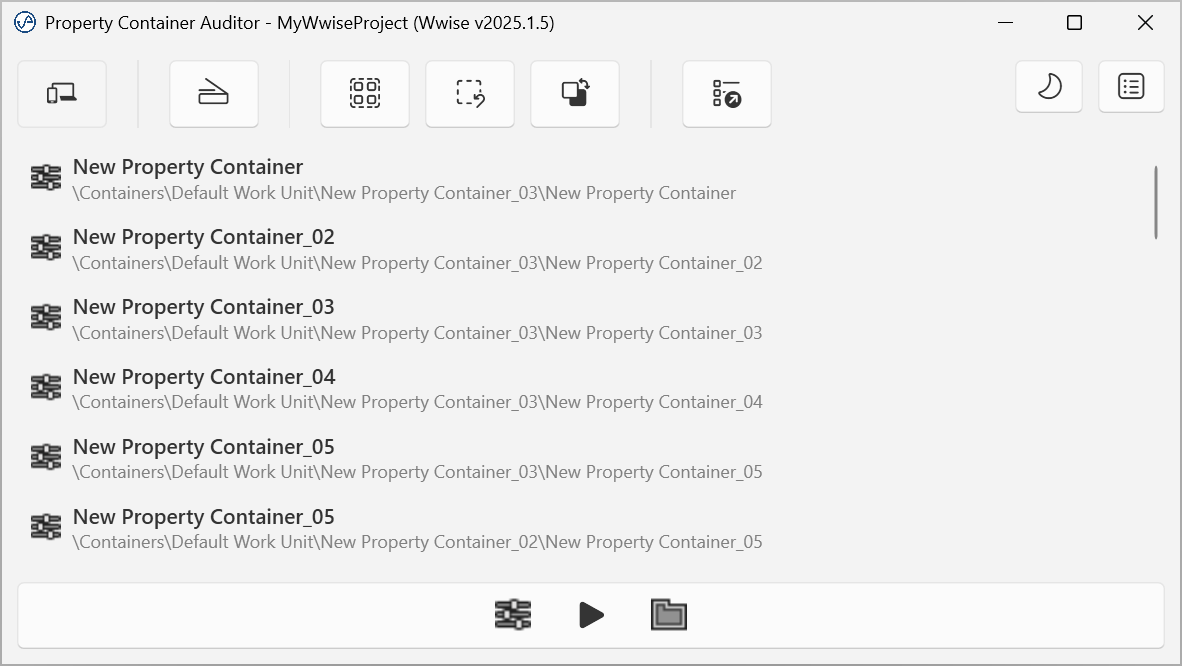
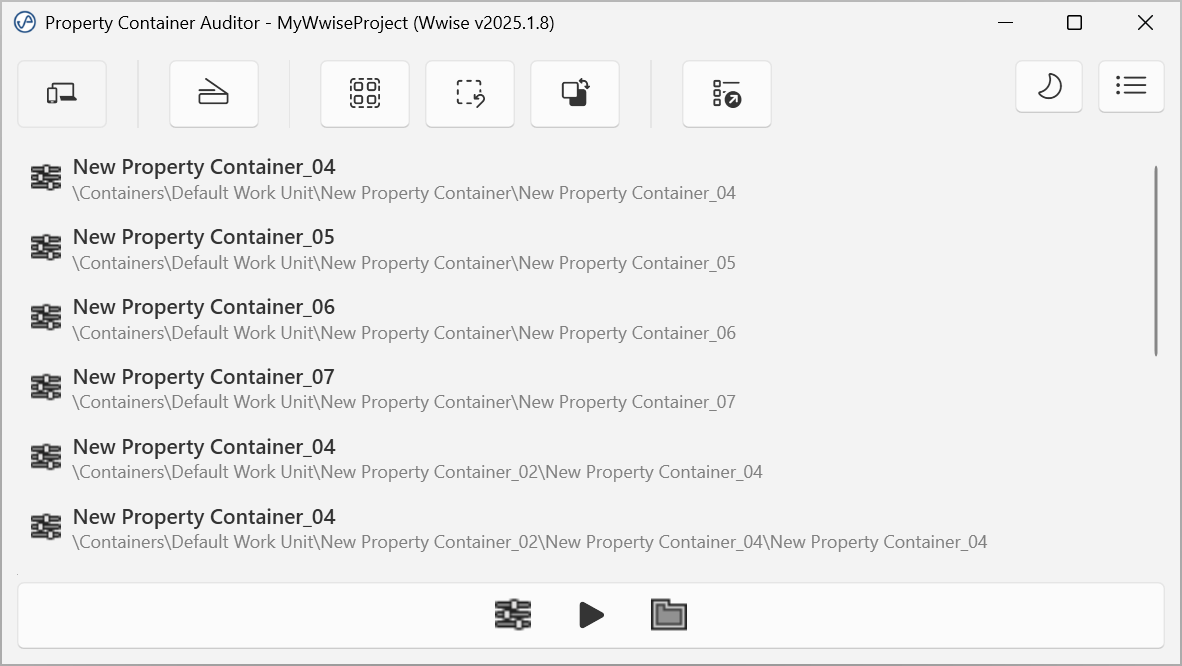
docs: split and update readme files

diff --git a/src/TransitionAuditioner/TransitionAuditioner.UI/MainWindow.xaml b/src/TransitionAuditioner/TransitionAuditioner.UI/MainWindow.xaml
@@ -24,44 +24,45 @@
             </Grid.ColumnDefinitions>
 
             <Button Grid.Column="0" Command="{Binding ConnectCommand}"
-                    Width="45" Height="35" VerticalAlignment="Center"
+                    Width="60" Height="45" VerticalAlignment="Center"
                     ToolTip="Connect to Wwise"
                     IsEnabled="{Binding CanConnect}">
                 <Grid>
                     <TextBlock Style="{StaticResource FluentIcon}" Text="{Binding ConnectIcon}"
                                Visibility="{Binding ShowConnectionIcon, Converter={StaticResource BooleanToVisibilityConverter}}" />
                     <ProgressBar IsIndeterminate="True" Width="20" Height="20"
-                                 Visibility="{Binding ShowConnectingProgress, Converter={StaticResource BooleanToVisibilityConverter}}" />
+                                 Visibility="{Binding ShowConnectingProgress, Converter={StaticResource BooleanToVisibilityConverter}}" HorizontalAlignment="Left" />
                 </Grid>
             </Button>
 
             <Separator Grid.Column="1" Margin="10,0,10,0" />
 
-            <Border Grid.Column="2" Padding="12,0" CornerRadius="6" Height="35"
+            <Border Grid.Column="2" Padding="12,0" CornerRadius="6" Height="45"
                     Background="{DynamicResource LayerOnMicaBaseAltFillColorSecondaryBrush}"
                     VerticalAlignment="Center" HorizontalAlignment="Stretch">
                 <DockPanel>
                     <Image DockPanel.Dock="Left" Source="{Binding TargetIcon, TargetNullValue={x:Null}}"
-                           Width="15" Height="15" Margin="0,0,8,0" VerticalAlignment="Center"
+                           Width="20" Height="20" Margin="0,0,8,0" VerticalAlignment="Center"
                            Visibility="{Binding HasTarget, Converter={StaticResource BooleanToVisibilityConverter}}" />
-                    <TextBlock Text="{Binding TargetName}" FontSize="18" FontWeight="Medium"
+                    <TextBlock Text="{Binding TargetName}" FontSize="22" FontWeight="Medium"
                                VerticalAlignment="Center" HorizontalAlignment="Left"
                                TextTrimming="CharacterEllipsis" ToolTip="{Binding TargetName}" />
                 </DockPanel>
             </Border>
 
-            <Button Grid.Column="3" Width="45" Height="35" Margin="8,0,0,0"
+            <Button Grid.Column="3" Width="60" Height="45" Margin="8,0,0,0"
                     VerticalAlignment="Center"
                     Command="{Binding PullSelectionCommand}"
                     ToolTip="{Binding PullSelectionToolTip}">
                 <TextBlock Style="{StaticResource FluentIcon}" Text="{Binding PullSelectionIcon}" />
             </Button>
 
-            <Separator Grid.Column="4" Margin="10,0,10,0" />
+            <Separator Grid.Column="4" Margin="10,0,10,0" Visibility="Hidden"/>
 
-            <StackPanel Grid.Column="5" Orientation="Horizontal" VerticalAlignment="Center">
+            <StackPanel Grid.Column="5" Orientation="Horizontal" VerticalAlignment="Top" HorizontalAlignment="Right">
                 <Button Command="{Binding ThemeChangeCommand}"
                         Width="45" Height="35" Margin="0,0,10,0"
+                        
                         ToolTip="Change app theme">
                     <TextBlock Style="{StaticResource FluentIcon}" Text="{Binding ThemeIcon}" />
                 </Button>
@@ -115,11 +116,11 @@
 
         <Grid Grid.Row="4" Margin="0,16,0,0">
             <StackPanel Orientation="Horizontal" HorizontalAlignment="Left">
-                <Button Command="{Binding ShowInExplorerCommand}" Width="45" Height="35" Margin="0,0,8,0"
+                <Button Command="{Binding ShowInExplorerCommand}" Width="60" Height="45" Margin="0,0,8,0"
                         ToolTip="Show in Project Explorer">
                     <TextBlock Style="{StaticResource FluentIcon}">&#xE7AC;</TextBlock>
                 </Button>
-                <Button Command="{Binding OpenPlaylistEditorCommand}" Width="45" Height="35"
+                <Button Command="{Binding OpenPlaylistEditorCommand}" Width="60" Height="45"
                         ToolTip="{Binding OpenPlaylistEditorToolTip}">
                     <TextBlock Style="{StaticResource FluentIcon}">&#xE8A4;</TextBlock>
                 </Button>
@@ -130,7 +131,7 @@
                      press during playback just re-triggers the transition cleanly. While playing it
                      swaps to a plain template (no visual-state manager) so hover/pressed don't alter
                      the steady accent — the press still fires the command. -->
-                <Button Command="{Binding PlayCommand}" Width="45" Height="35" Margin="0,0,8,0"
+                <Button Command="{Binding PlayCommand}" Width="60" Height="45" Margin="0,0,8,0"
                         ToolTip="Play">
                     <Button.Style>
                         <Style TargetType="Button" BasedOn="{StaticResource {x:Type Button}}">
@@ -157,7 +158,7 @@
                 <!-- Stop: an accent overlay briefly flashes on press to acknowledge the press, then
                      fades back out. -->
                 <Grid>
-                    <Button Command="{Binding StopCommand}" Width="45" Height="35"
+                    <Button Command="{Binding StopCommand}" Width="60" Height="45"
                             ToolTip="Stop">
                         <Button.Triggers>
                             <EventTrigger RoutedEvent="Button.Click">

diff --git a/readme.md b/readme.md
@@ -2,79 +2,56 @@
 
 Waapi Tools is a collection of utilities designed to streamline tasks in Audiokinetic's Wwise middleware using the Wwise Authoring API (WAAPI) and Wwise Authoring Query Language (WAQL).
 
-Currently, the project includes the following tool:
+Currently, the project includes the following tools:
 
-- **[PropertyContainerAuditor](https://github.com/jaku5/waapi-tools#property-container-auditor)**: A utility that converts Actor-Mixers / Property Containers into Virtual Folders if they are not utilized for mixing tasks.
+- **[PropertyContainerAuditor](src/PropertyContainerAuditor/README.md)**: A utility that converts Actor-Mixers / Property Containers into Virtual Folders if they are not utilized for mixing tasks.
 ![PropertyContainerAuditor](images/PropertyContainerAuditor.png)
-- **[TransitionAuditioner](https://github.com/jaku5/waapi-tools#transition-auditioner)**: Audition a single interactive-music transition in-editor, without playing through the material that precedes it.
+- **[TransitionAuditioner](src/TransitionAuditioner/README.md)**: Audition a single interactive-music transition in-editor, without playing through the material that precedes it.
+![TransitionAuditioner](images/TransitionAuditioner.png)
 - More tools coming soon.
 
 ## Prerequisites
 
 - **Wwise 2023.1.x** or any newer version.
+- **WAAPI enabled** in Wwise: **Project → User Preferences → Enable Wwise Authoring API**. The tools communicate with Wwise over the Wwise Authoring API.
 - **Supported OS:** Windows 10[^1], Windows 11.
 [^1]: Note for Windows 10 users: Windows 10 does not include the Segoe Fluent Icons font by default. To ensure proper icon rendering, install the Segoe Fluent Icons font as described in the [Microsoft documentation](https://learn.microsoft.com/en-us/windows/apps/design/iconography/segoe-fluent-icons-font#how-do-i-get-this-font)
 
 ## Installation
 
-1. **Download the Release**:
-   - Navigate to the [Releases](https://github.com/jaku5/waapi-tools/releases) section of this repository.
-   - Download the latest release, which includes:
-     - `PropertyContainerAuditor.exe`
-     - `jpaudio-waapi-tools.json`
+First, **download the latest release** from the [Releases](https://github.com/jaku5/waapi-tools/releases) section. Each release bundles every tool's executable plus the shared `jpaudio-waapi-tools.json` command file:
 
-2. **Copy files to the Wwise installation folder**:
-   - Locate your Wwise installation directory.
-   - Copy the downloaded `PropertyContainerAuditor.exe` into `%WWISEROOT%\Authoring\Data\Add-ons` and `jpaudio-waapi-tools.json` into `%WWISEROOT%\Authoring\Data\Add-ons\Commands` subfolder of your Wwise installation.
-   - For more information and other installation methods, refer to the [Audiokinetic documentation](https://www.audiokinetic.com/en/public-library/2022.1.18_8567/?source=SDK&id=defining_custom_commands.html).
+- `PropertyContainerAuditor.exe`
+- `TransitionAuditioner.exe`
+- `jpaudio-waapi-tools.json`
+
+There are two ways to run the tools (both require WAAPI enabled — see [Prerequisites](#prerequisites)).
+
+### Option A — Run standalone (no setup)
+
+Just launch the tool's `.exe` directly (e.g. double-click it) while Wwise is open. The tool connects to Wwise over WAAPI on its own — nothing to copy, nothing to configure. This is the quickest way to try the tools.
+
+### Option B — Wwise Extra menu integration
+
+If you'd rather launch the tools from inside Wwise, register them as custom commands:
+
+1. Locate your Wwise installation directory.
+2. Copy the tool executables (`PropertyContainerAuditor.exe`, `TransitionAuditioner.exe`) into `%WWISEROOT%\Authoring\Data\Add-ons`, and `jpaudio-waapi-tools.json` into the `%WWISEROOT%\Authoring\Data\Add-ons\Commands` subfolder.
+3. Restart Wwise. The tools now appear under the **Extra** menu.
+
+For more information and other installation methods, refer to the [Audiokinetic documentation](https://www.audiokinetic.com/en/public-library/2022.1.18_8567/?source=SDK&id=defining_custom_commands.html).
 
 ## Usage
 
-1. Open Wwise.
-2. Access the **Extra** menu in Wwise.
-3. Select the command to run the tool.
+1. Open Wwise (with WAAPI enabled).
+2. Launch a tool — either run its `.exe` directly (Option A) or select its command from the **Extra** menu (Option B).
 
 ## Tools
-### Property Container Auditor
-#### Background
-As per [Audiokinetic guidelines](https://www.audiokinetic.com/en/public-library/2022.1.18_8567/?source=SDK&id=goingfurther_optimizingmempools_reducing_memory.html), Actor-Mixers / Property Container should not be used solely for organizing sounds, as they introduce some memory overhead compared to Work Units or Virtual Folders.
 
-#### How it works
-The tool will:
-- Identify Actor-Mixers / Property Container that can be converted into virtual folders based on the following criteria (all conditions must be met):
-    - Actor-Mixer / Property Container has at least one ancestor Actor-Mixer / Property Container.
-    - Actor-Mixer / Property Container has no overridden properties or values (i.e., all properties and values are the same as on the closest ancestor Actor-Mixer / Property Container).
-    - Actor-Mixer / Property Container has all randomizable property values set to 0 and doesn't have any active randomizer set on them.
-    - Actor-Mixer / Property Container has no RTPCs with control inputs.
-    - Actor-Mixer / Property Container has no states with defined values.
-    - Actor-Mixer / Property Container is not referenced by any event action.
-- List all Actor-Mixer / Property Container candidates' names and IDs in the UI, allowing you to select and manage them (e.g., Show in List View or Find in Project Explorer).
-- Prompt you to confirm the conversion for selected candidates.
+Each tool has its own detailed documentation:
 
-> [!NOTE]
-> Please note that this tool is considered experimental; be careful when using it in production and preferably have source control set up to inspect the diffs or restore backups. Especially since it is meant to be used at the end of production, after the mixing stage, when you know you won't need these Actor-Mixers / Property Container for mixing tasks. That said, you should be able to undo all the changes made by the tool with <kbd>Ctrl</kbd> + <kbd>Z</kbd>.
-
-### Transition Auditioner
-#### Background
-In Wwise interactive music, transitions fire only at their defined points (bars, cues, segment ends). To hear one specific transition you often have to start playback well before it and listen through the intervening material — then redo the wait after every tweak. This tool automates a community technique (wrapping the structure in a parent Music Switch Container with a *Jump to playlist item* + custom-cue transition rule) so that checking one transition becomes a one-step action.
-
-It is the live, in-editor, single-transition counterpart to offline approaches like [Music Render](https://www.audiokinetic.com/en/blog/) — complementary, not competing.
-
-#### How it works
-1. In Wwise, **select** a Music Switch Container, Music Playlist Container, or Music Segment in the Project Explorer.
-2. Run **Extra → Audition Music Transition**. The tool connects and shows the selected target. To change the target later without reopening, select a different object in Wwise and click **Pull Selection**.
-3. Set the **cue offset from end** (in seconds, default 1 s) and the **length basis** — *Exit cue* (where the transition fires, the default), *Segment end* (the segment's `@EndPosition`, including any post-exit tail), or *Audio length* (the longest audio source's trimmed duration) — then click **Set Up & Audition**. The tool:
-   - Builds a Music Switch Container harness at the root of the target's own Work Unit (wrapped in a single undo group, so your undo history is preserved).
-   - **Copies** the selected structure into the harness (the production structure is copied, never moved or mutated).
-   - Places one custom cue the chosen offset before each Music Segment's end, so you can jump to the run‑up into the transition instead of playing the whole segment.
-   - Assigns the copy as the harness's generic path, and adds a transition rule (Source **None** → **target**, Sync to **Random Custom Cue**, matching the audition cue) as the highest‑priority rule in the container.
-   - Creates a transport, ready to audition.
-   - Selects the harness in the Project Explorer and inspects it (its Transitions tab holds the None→target rule). For a Music Playlist Container target, if **Open Playlist Editor** is checked, it also opens the Music Playlist Editor showing the copied playlist.
-4. Click **▶ Play** in the tool to hear the transition (and **■ Stop** to stop) — playback runs through the tool's own transport, no need to touch Wwise. **Show in Project Explorer** re-reveals on demand. Adjust the offset and click **Set Up & Audition** again to rebuild.
-5. Click **Finish & Clean Up** (or just close the window) — the harness (and everything in it) is deleted. The project is never saved.
-
-> [!NOTE]
-> This is an MVP (v1). It sets up the audition and you press Play; a fully automatic playback trigger and a transition-picker panel are planned for a later version. The transition rule is built automatically (the `MusicTransition` object model is identical across Wwise 2021–2025); if it can't be set for any reason, the harness is still left playable so you can finish the rule by hand. Teardown runs even on error, so the tool never leaves scaffolding behind.
+- **[Property Container Auditor](src/PropertyContainerAuditor/README.md)** — background, conversion criteria, and usage notes.
+- **[Transition Auditioner](src/TransitionAuditioner/README.md)** — background and step-by-step audition workflow.
 
 ## License
 

diff --git a/src/TransitionAuditioner/README.md b/src/TransitionAuditioner/README.md
@@ -1,0 +1,27 @@
+# Transition Auditioner
+
+Audition a single interactive-music transition in-editor, without playing through the material that precedes it.
+
+![TransitionAuditioner](../../images/TransitionAuditioner.png)
+
+## Background
+Wwise 2026 introduces [Music Playlist Seek](https://www.audiokinetic.com/en/public-library/2026.1.1_9196/?source=SDK&id=whatsnew_2026_1_new_features.html&hsCtaAttrib=213427121072#user_experience), a first-party solution to the same problem that will likely supersede this tool, but as of writing 2026 is still in beta and not supported by Audiokinetic for production projects. This tool remains useful for projects on earlier versions (2023.1.x – 2025) where there is no built-in equivalent.
+
+On those versions, to hear one specific transition you often have to start playback well before it and listen through the whole segment, then redo your transition and wait again to audition the change. This way of working is not only time consuming but decreases focus and flow. This tool automates a community workaround technique (wrapping the structure in a parent Music Switch Container with a *Jump to playlist item* + custom-cue transition rule) so that checking one transition becomes a one-step action.
+
+## How it works
+1. In Wwise, **select** a Music Switch Container, Music Playlist Container, or Music Segment in the Project Explorer.
+2. Run **Extra → Audition Music Transition**. The tool connects and shows the selected target. To change the target later without reopening, select a different object in Wwise and click **Pull Selection**.
+3. Set the **cue offset from end** (in seconds, default 1 s) and the **length basis** — *Exit cue* (where the transition fires, the default), *Segment end* (the segment's `@EndPosition`, including any post-exit tail), or *Audio length* (the longest audio source's trimmed duration) — then click **Set Up & Audition**. The tool:
+   - Builds a Music Switch Container harness at the root of the target's own Work Unit (wrapped in a single undo group, so your undo history is preserved).
+   - **Copies** the selected structure into the harness (the production structure is copied, never moved or modified).
+   - Places one custom cue the chosen offset before each Music Segment's end, so you can jump to the run‑up into the transition instead of playing the whole segment.
+   - Assigns the copy as the harness's generic path, and adds a transition rule (Source **None** → **target**, Sync to **Random Custom Cue**, matching the audition cue) as the highest‑priority rule in the container.
+   - Creates a transport, ready to audition.
+   - Selects the harness in the Project Explorer and inspects it (its Transitions tab holds the None→target rule). For a Music Playlist Container target, you can also use **Open Playlist Editor** to open the Music Playlist Editor showing the copied playlist.
+4. Click **▶ Play** in the tool to hear the transition (and **■ Stop** to stop) — playback runs through the tool's own transport, no need to touch Wwise. **Show in Project Explorer** re-reveals on demand. Adjust the offset and click **Set Up & Audition** again to rebuild.
+5. Click **Finish & Clean Up** (or just close the window) — the harness (and everything in it) is deleted. The project is never saved.
+
+### Acknowledgments
+
+Thanks to [Aaron Brown](https://www.aaronbrownsound.com/) for sharing his write up of this workaround technique that inspired this tool.

diff --git a/src/PropertyContainerAuditor/README.md b/src/PropertyContainerAuditor/README.md
@@ -1,0 +1,23 @@
+# Property Container Auditor
+
+A utility that converts Actor-Mixers / Property Containers into Virtual Folders if they are not utilized for mixing tasks.
+
+![PropertyContainerAuditor](../../images/PropertyContainerAuditor.png)
+
+## Background
+As per [Audiokinetic guidelines](https://www.audiokinetic.com/en/public-library/2022.1.18_8567/?source=SDK&id=goingfurther_optimizingmempools_reducing_memory.html), Actor-Mixers / Property Container should not be used solely for organizing sounds, as they introduce some memory overhead compared to Work Units or Virtual Folders.
+
+## How it works
+The tool will:
+- Identify Actor-Mixers / Property Container that can be converted into virtual folders based on the following criteria (all conditions must be met):
+    - Actor-Mixer / Property Container has at least one ancestor Actor-Mixer / Property Container.
+    - Actor-Mixer / Property Container has no overridden properties or values (i.e., all properties and values are the same as on the closest ancestor Actor-Mixer / Property Container).
+    - Actor-Mixer / Property Container has all randomizable property values set to 0 and doesn't have any active randomizer set on them.
+    - Actor-Mixer / Property Container has no RTPCs with control inputs.
+    - Actor-Mixer / Property Container has no states with defined values.
+    - Actor-Mixer / Property Container is not referenced by any event action.
+- List all Actor-Mixer / Property Container candidates' names and IDs in the UI, allowing you to select and manage them (e.g., Show in List View or Find in Project Explorer).
+- Prompt you to confirm the conversion for selected candidates.
+
+> [!NOTE]
+> Please note that this tool is considered experimental; be careful when using it in production and preferably have source control set up to inspect the diffs or restore backups. Especially since it is meant to be used at the end of production, after the mixing stage, when you know you won't need these Actor-Mixers / Property Container for mixing tasks. That said, you should be able to undo all the changes made by the tool with <kbd>Ctrl</kbd> + <kbd>Z</kbd>.